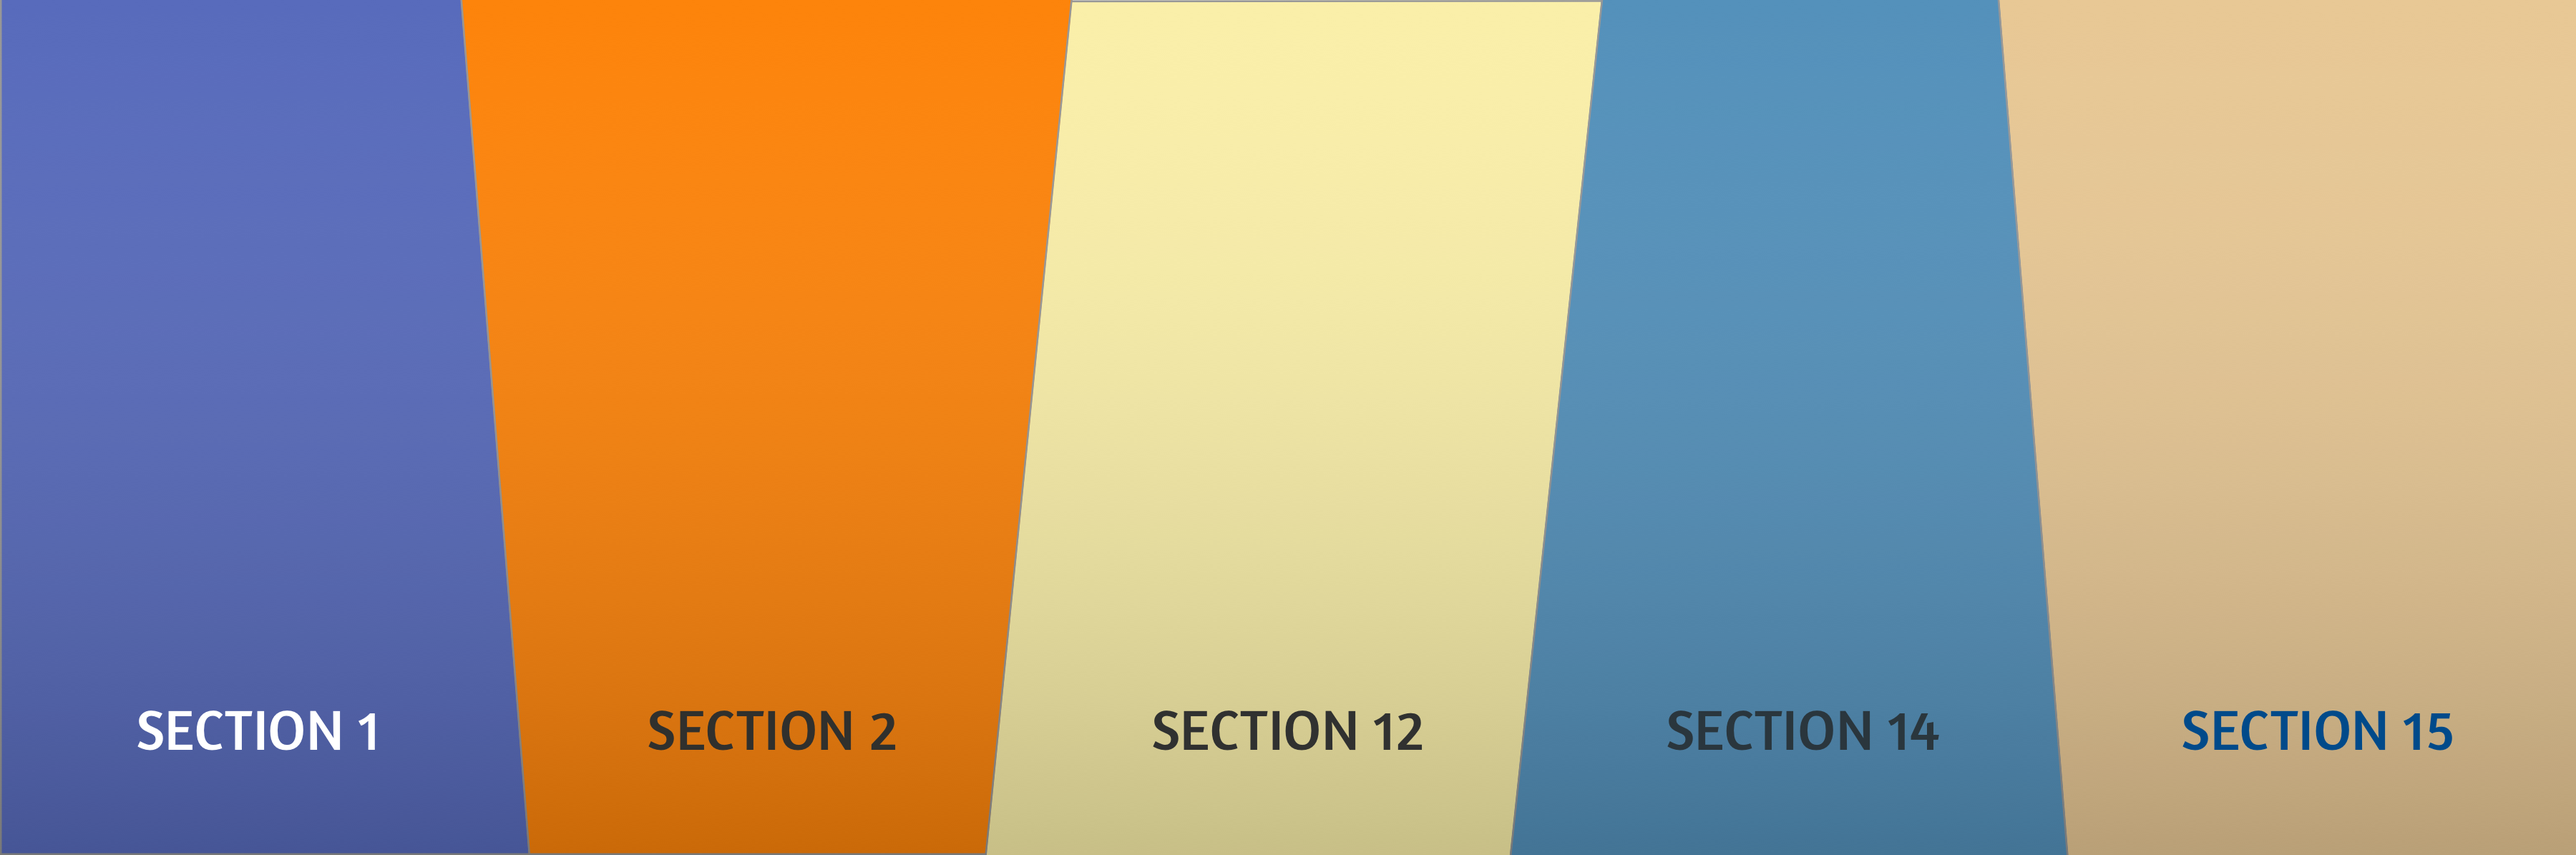
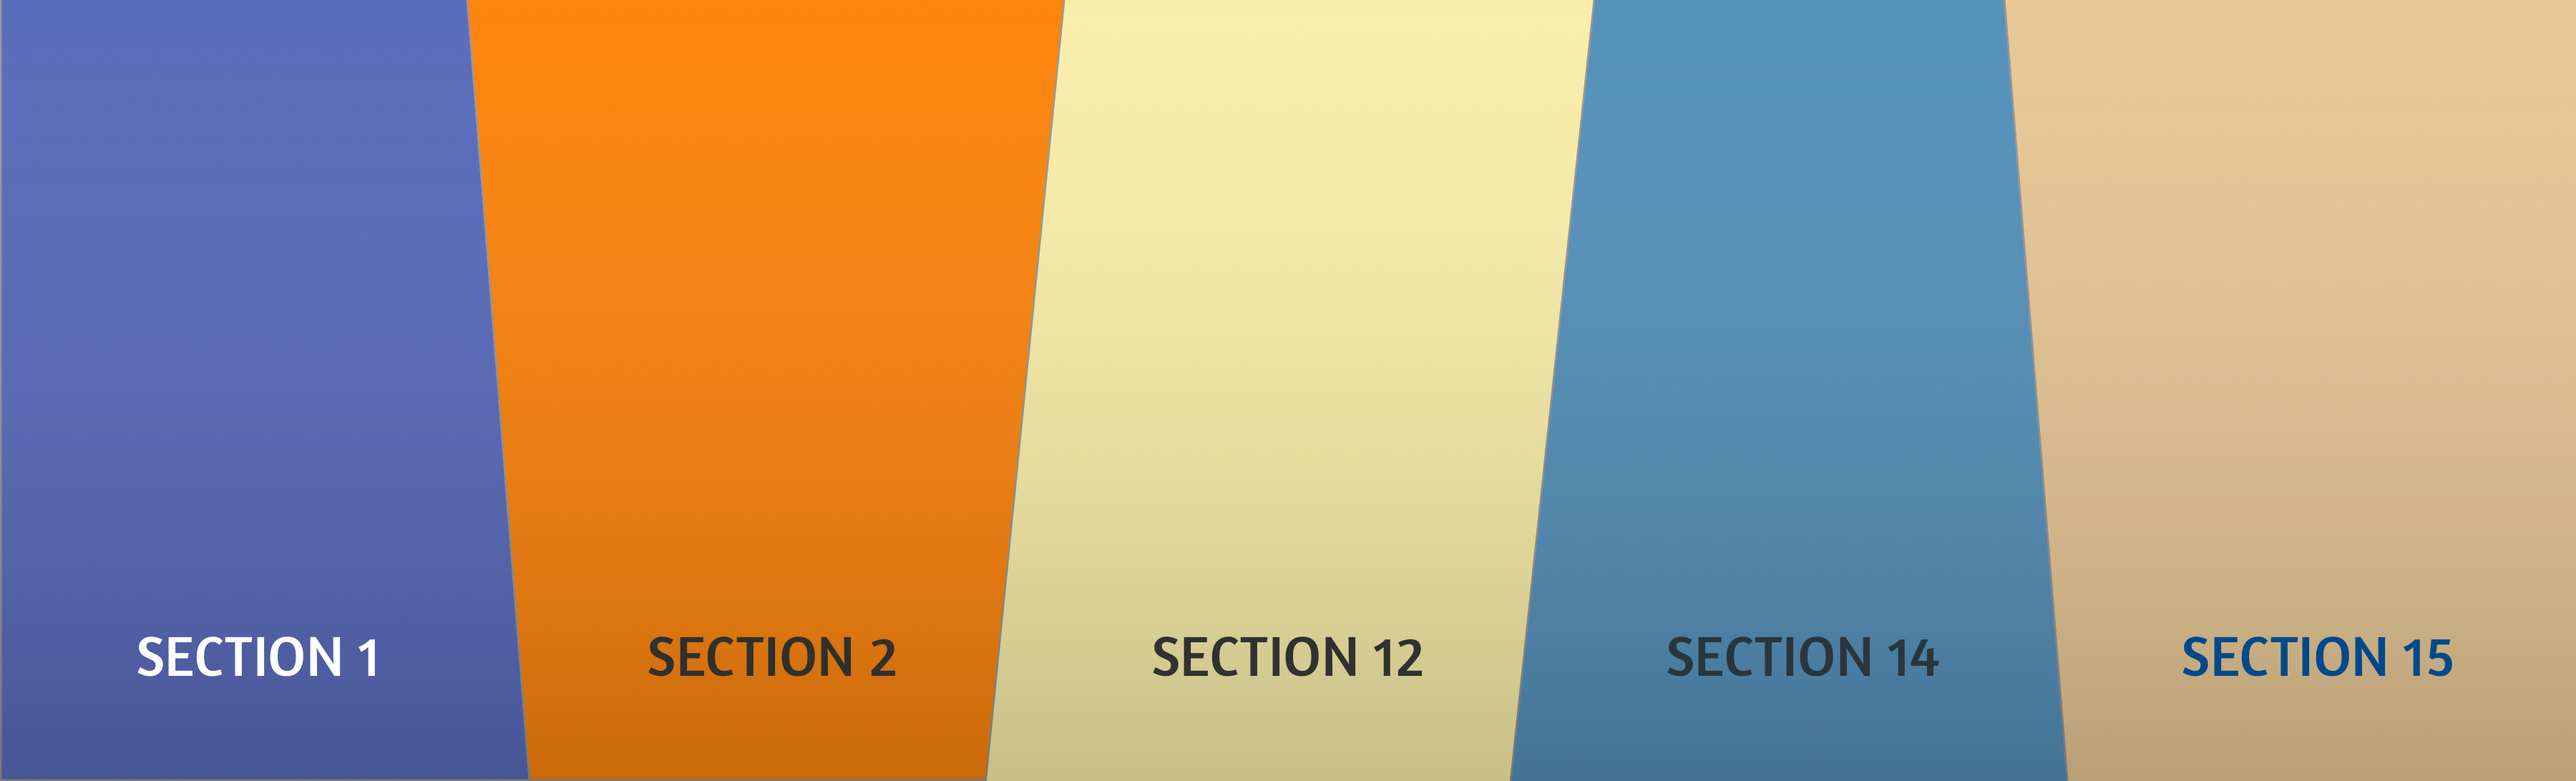
finished first page

diff --git a/src/Sections.js b/src/Sections.js
@@ -1,26 +1,69 @@
 import React from 'react';
+
 import './Sections.css'
+import secBackgroung from "./resources/SectionsBackground.png"
+import sec1Img from "./resources/sec1.png"
+import sec2Img from "./resources/sec2.png"
+import sec12Img from "./resources/sec12.png"
+import sec14Img from "./resources/sec14.png"
+import sec15Img from "./resources/sec15.png"
+
+const imgStyle = {
+	display: 'block',
+	zIndex:-1,
+	position: 'absolute',
+	width:'100%'
+};
+
+const ulStyle = {
+  	zIndex:2,
+  	position: 'absolute'
+};
+
+const sec1Style = {
+  	marginTop: '15vh',
+  	marginLeft: '9vh'
+};
+const sec2Style = {
+  	marginTop: '15vh',
+  	marginLeft: '9vh'
+};
+const sec12Style = {
+  	marginTop: '15vh',
+  	marginLeft: '13vh'
+};
+const sec14Style = {
+  	marginTop: '15vh',
+  	marginLeft: '18vh'
+};
+const sec15Style = {
+  	marginTop: '15vh',
+  	marginLeft: '19vh'
+};
 class Sections extends React.Component {
 
-  render() {
-    return (
-      <div>
-        <ul>
-          <li>Mador 1</li>
-          <li>Mador 2</li>
-          <li>Mador 12</li>
-          <li>Mador 14</li>
-          <li>Mador 15</li>
-          <li>Mador 15</li>
-          <li>Mador 15</li>
-          <li>Mador 15</li>
-          <li>Mador 15</li>
-          <li>Mador 15</li>
-          <li>Mador 15</li>
-          <li>Mador 15</li>
-        </ul>
-      </div>
-    );
-  }
+	render() {
+		return (
+			<div>
+				<img src={secBackgroung} style={imgStyle} />
+				<div>
+				<img class="hvr-grow" src={sec1Img} style={sec1Style}/>
+				<img class="hvr-grow" src={sec2Img} style={sec2Style}/>
+				<img class="hvr-grow" src={sec12Img} style={sec12Style}/>
+				<img class="hvr-grow" src={sec14Img} style={sec14Style}/>
+				<img class="hvr-grow" src={sec15Img} style={sec15Style}/>
+				</div>
+			</div>
+		);
+	}
 }
+
+// <ul style={ulStyle}>
+// 					<li>Mador 1</li>
+// 					<li>Mador 2</li>
+// 					<li>Mador 12</li>
+// 					<li>Mador 14</li>
+// 					<li>Mador 15</li>
+// 				</ul> 
+
 export default Sections;

diff --git a/src/Sections.css b/src/Sections.css
@@ -1,5 +1,48 @@
-body
-{
-	background-image: url('./resources/SectionsBackground.png');
-	background-repeat:   no-repeat;
+/* Shine */
+.hover14 figure {
+	position: relative;
+}
+.hover14 figure::before {
+	position: absolute;
+	top: 0;
+	left: -75%;
+	z-index: 2;
+	display: block;
+	content: 'fuck front-end';
+	width: 50%;
+	height: 100%;
+	background: -webkit-linear-gradient(left, rgba(255,255,255,0) 0%, rgba(255,255,255,.3) 100%);
+	background: linear-gradient(to right, rgba(255,255,255,0) 0%, rgba(255,255,255,.3) 100%);
+	-webkit-transform: skewX(-25deg);
+	transform: skewX(-25deg);
+}
+.hover14 figure:hover::before {
+	-webkit-animation: shine 3.75s;
+	animation: shine 3.75s;
+}
+@-webkit-keyframes shine {
+	100% {
+		left: 125%;
+	}
+}
+@keyframes shine {
+	100% {
+		left: 125%;
+	}
+}
+
+.hvr-grow {
+  display: inline-block;
+  vertical-align: middle;
+  -webkit-transform: perspective(1px) translateZ(0);
+  transform: perspective(1px) translateZ(0);
+  box-shadow: 0 0 1px rgba(0, 0, 0, 0);
+  -webkit-transition-duration: 0.3s;
+  transition-duration: 0.3s;
+  -webkit-transition-property: transform;
+  transition-property: transform;
+}
+.hvr-grow:hover, .hvr-grow:focus, .hvr-grow:active {
+  -webkit-transform: scale(1.2);
+  transform: scale(1.2);
 }

diff --git a/src/App.js b/src/App.js
@@ -5,11 +5,18 @@ class App extends React.Component {
 
   render() {
     return (
-	<React.Fragment>
+	<div>
       <Header/>	
-      <Sections/>
-    </React.Fragment>
+      {a()}
+    </div>
     );
   }
 }
+
+
+function a()
+{
+	return <Sections/>;
+}
+
 export default App;

diff --git a/src/index.css b/src/index.css
@@ -1,6 +1,8 @@
 body {
   margin: 0;
   padding: 0;
+  overflow-y: hidden;
+
   font-family: -apple-system, BlinkMacSystemFont, "Segoe UI", "Roboto", "Oxygen",
     "Ubuntu", "Cantarell", "Fira Sans", "Droid Sans", "Helvetica Neue",
     sans-serif;

diff --git a/src/Header.js b/src/Header.js
@@ -4,7 +4,7 @@ class Header extends React.Component {
 
   render() {
     return (
-      <img src={headerImage} alt="Header" width='100%'/>
+        <img src={headerImage} alt="Header" width='100%' style={{display: 'block'}}/>
     );
   }
 }
